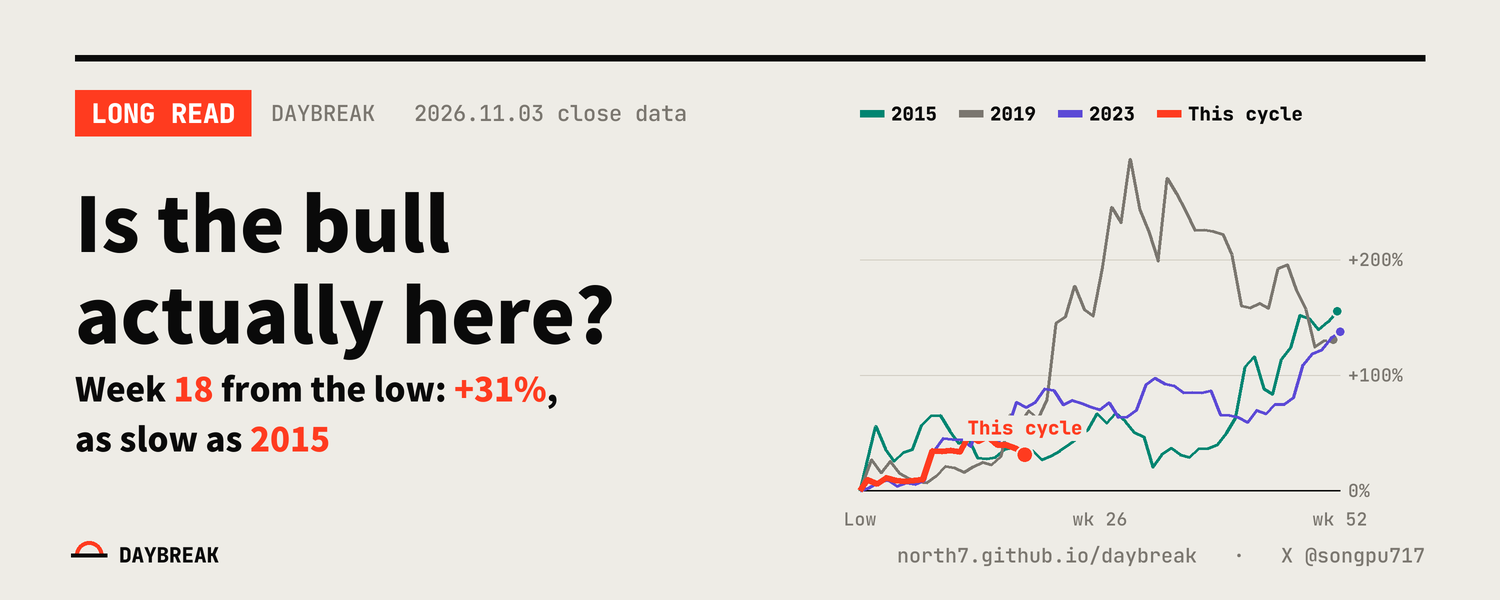
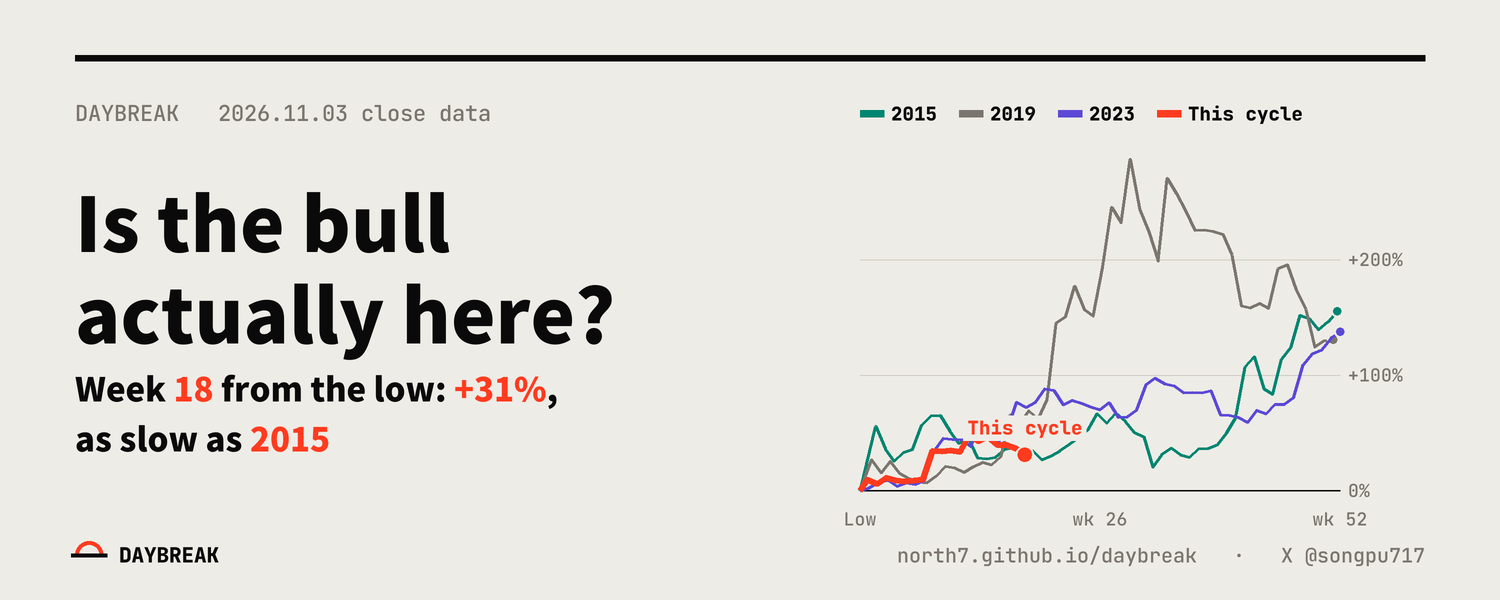
article: 封面拿掉「長文」標籤

Changed region(s): [[0.0307, 0.15, 0.46, 0.24]]

diff --git a/ops/articles/charts.py b/ops/articles/charts.py
@@ -155,9 +155,8 @@ def cover(L, lang, Fn, out):
     d.rectangle([M2, 110, W2 - M2, 122], fill=INK)
     # 左：標籤、標題、副標
     tf = Fn['cjk'](60, 900) if lang == 'zh' else Fn['mono'](54, 800)
-    tw = d.textlength(C['tag'], font=tf); d.rectangle([M2, 180, M2 + tw + 64, 272], fill=RED); d.text((M2 + 32, 226), C['tag'], font=tf, fill='#FFFFFF', anchor='lm')
-    bd = dt.date.fromisoformat(L['meta']['bar_date'])
-    d.text((M2 + tw + 104, 226), f'DAYBREAK   {bd:%Y.%m.%d}' + (' 收盤數據' if lang == 'zh' else ' close data'), font=Fn['cjk'](44, 500) if lang == 'zh' else Fn['mono'](44, 500), fill=INK3, anchor='lm')
+    bd = dt.date.fromisoformat(L['meta']['bar_date'])   # 封面不加「長文」標籤（2026-11-04 使用者要求）
+    d.text((M2, 226), f'DAYBREAK   {bd:%Y.%m.%d}' + (' 收盤數據' if lang == 'zh' else ' close data'), font=Fn['cjk'](44, 500) if lang == 'zh' else Fn['mono'](44, 500), fill=INK3, anchor='lm')
     lw = 1420
     for size in range(C['max'], 90, -6):
         hf = Fn['head'](size); lines = SC.wrap(C['title'], hf, lw)
